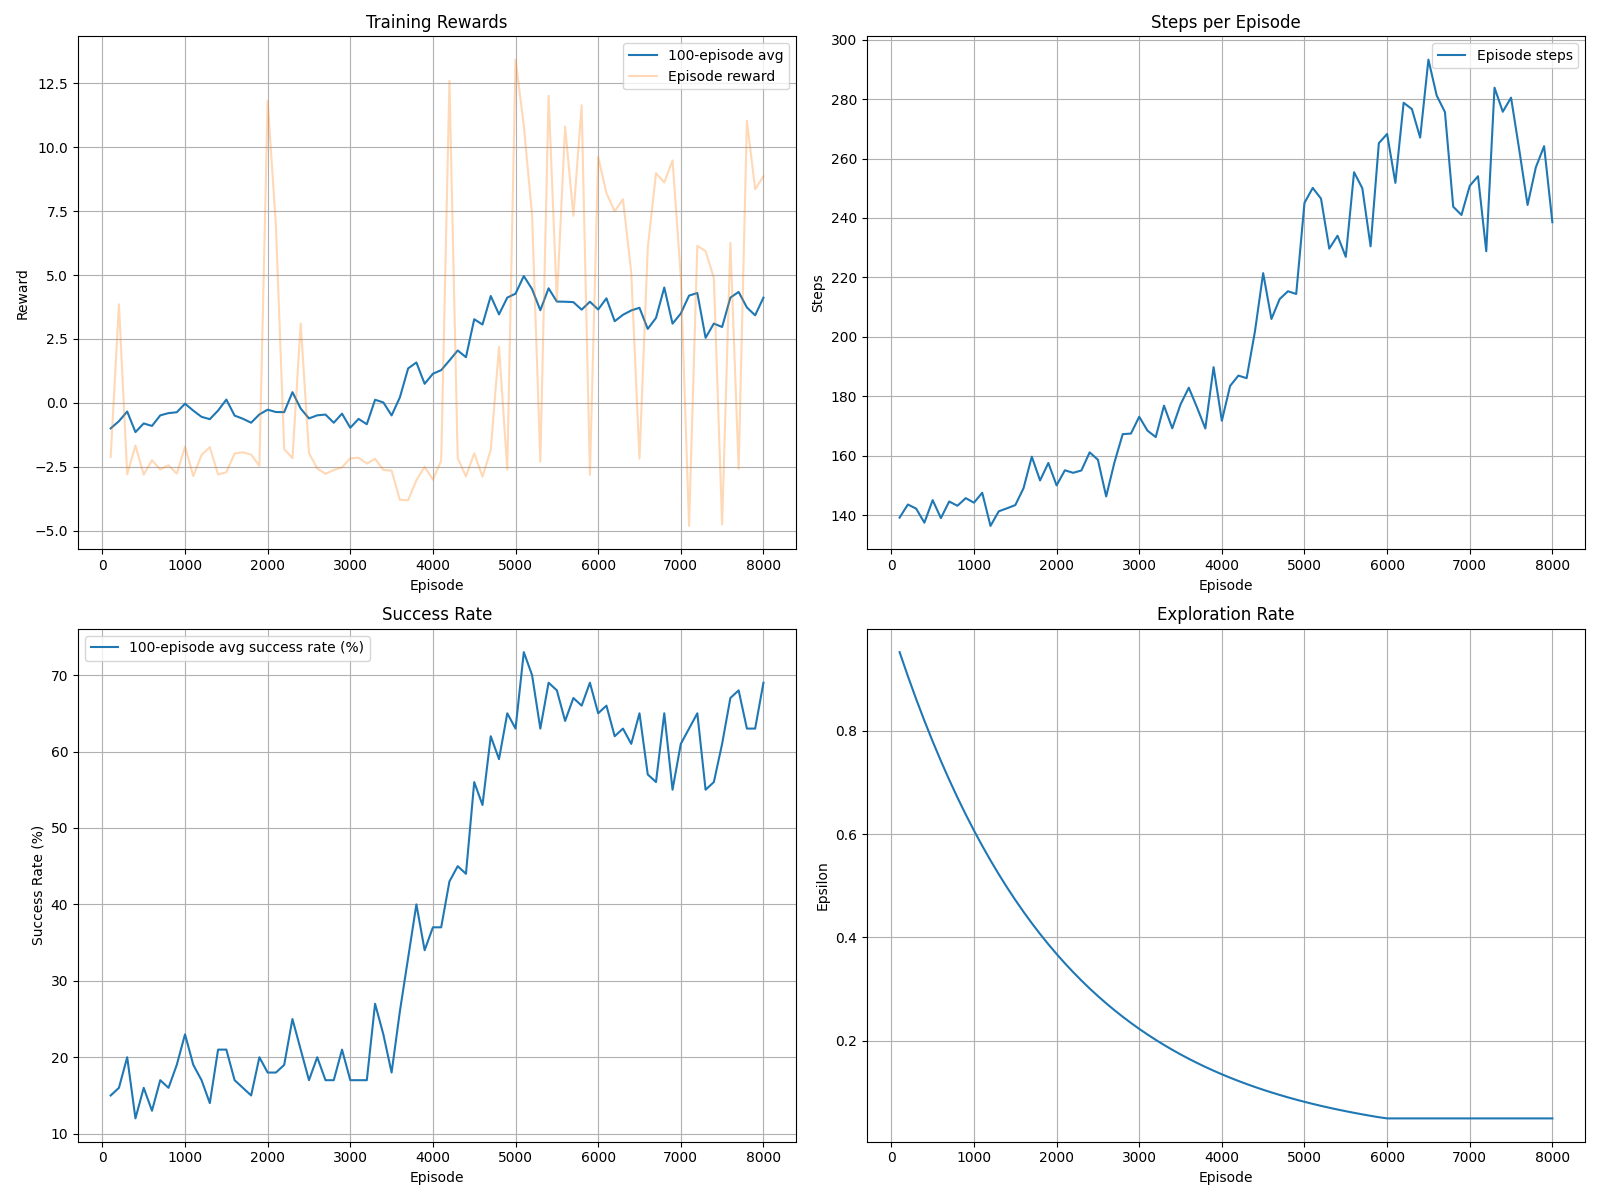
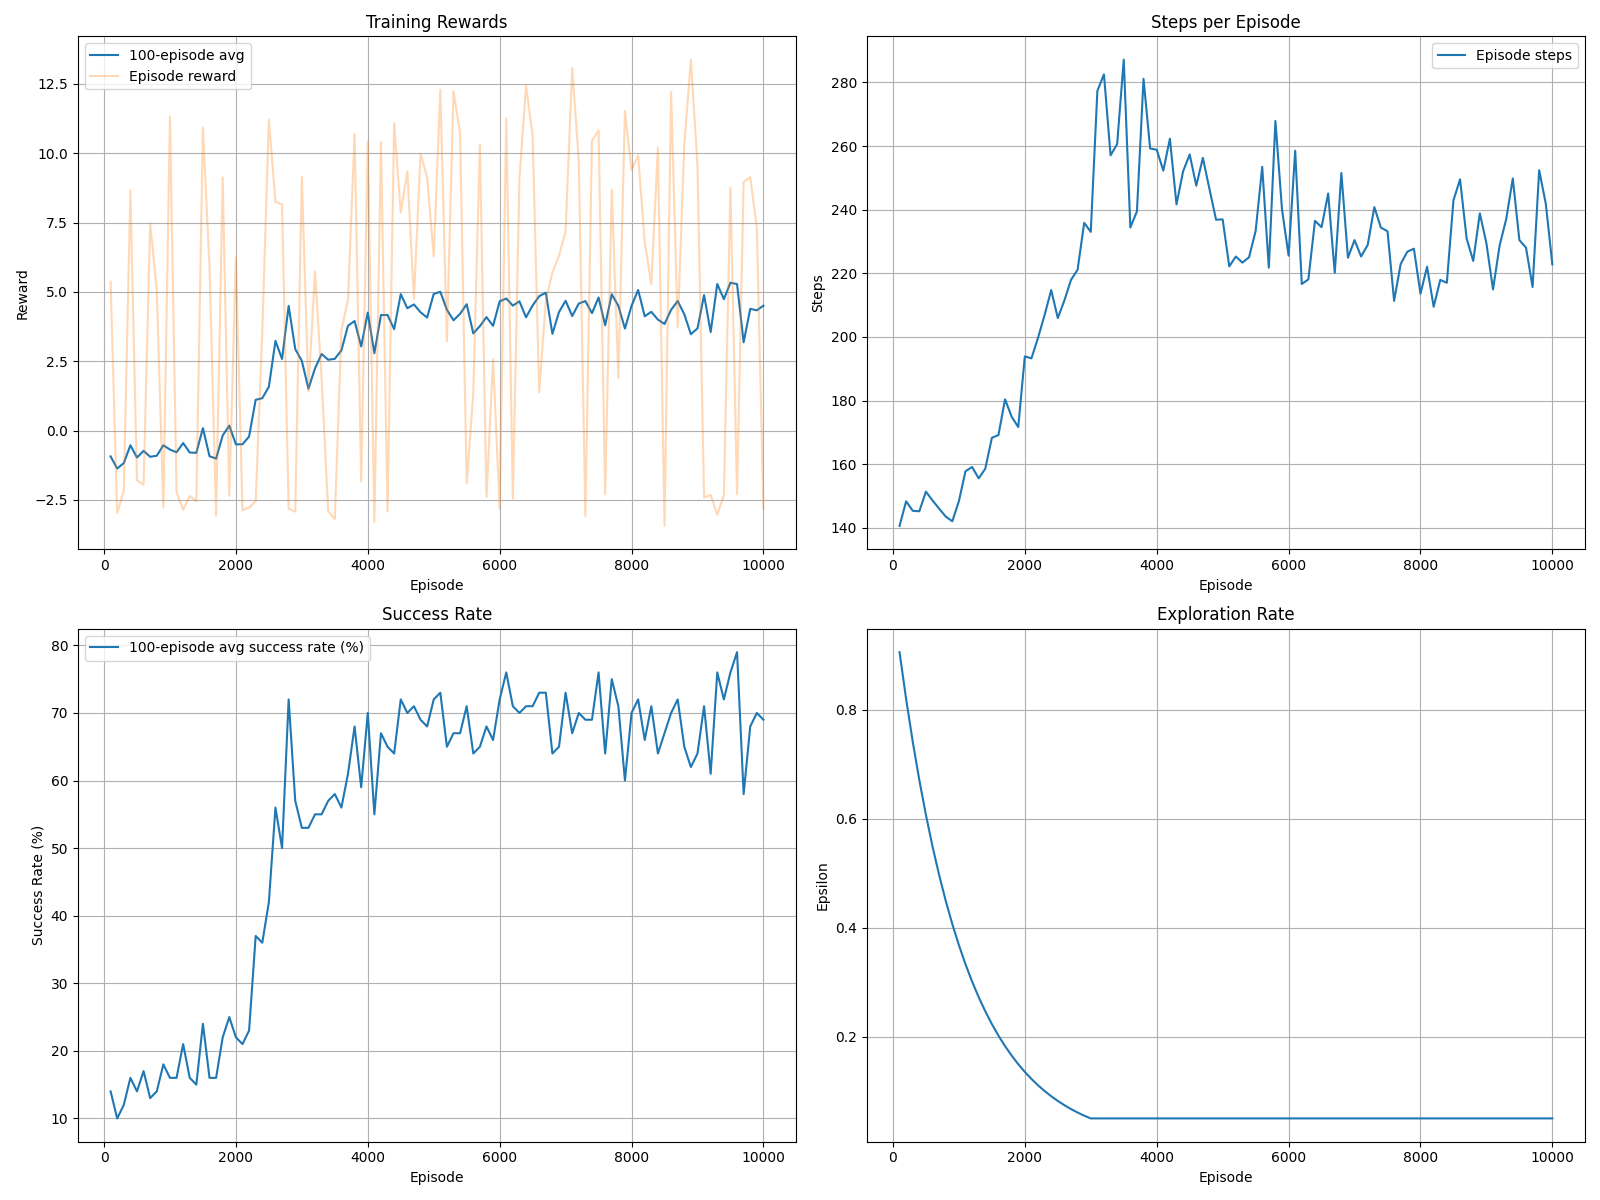
60-70%

diff --git a/dqn.py b/dqn.py
@@ -10,18 +10,22 @@ import pandas as pd
 class QNetwork(nn.Module):
     def __init__(self, state_size, action_size):
         super(QNetwork, self).__init__()
-        self.fc1 = nn.Linear(state_size, 256)  # First hidden layer (increased)
-        self.fc2 = nn.Linear(256, 128)         # Second hidden layer (increased)
-        self.fc3 = nn.Linear(128, 64)          # Third hidden layer (increased)
-        self.fc4 = nn.Linear(64, 32)           # Additional hidden layer
-        self.fc5 = nn.Linear(32, action_size)  # Output layer
+        self.net = nn.Sequential(
+            nn.Linear(state_size, 512),
+            nn.ReLU(),
+            nn.Linear(512, 256),
+            nn.ReLU(),
+            nn.Linear(256, 128),
+            nn.ReLU(),
+            nn.Linear(128, 64),
+            nn.ReLU(),
+            nn.Linear(64, 32),
+            nn.ReLU(),
+            nn.Linear(32, action_size)
+        )
         
     def forward(self, state):
-        x = F.relu(self.fc1(state))
-        x = F.relu(self.fc2(x))
-        x = F.relu(self.fc3(x))
-        x = F.relu(self.fc4(x))
-        return self.fc5(x)  # Output Q-values
+        return self.net(state)
 
 class ReplayBuffer:
     def __init__(self, buffer_size, batch_size):
@@ -120,8 +124,7 @@ class DQNAgent:
                 self.learn(experiences, self.gamma)
                 
                 self.target_counter += 1
-                if self.target_counter % 2 * self.update_every == 0:
-                    self.soft_update(self.qnetwork_local, self.qnetwork_target, self.tau)
+                self.soft_update(self.qnetwork_local, self.qnetwork_target, self.tau)
 
     def act(self, state, eps):
         state = torch.from_numpy( np.array(state, dtype=np.float32)).float().unsqueeze(0).to(self.device)

diff --git a/environment.py b/environment.py
@@ -57,9 +57,9 @@ class Environment:
 
         self.drone = entities.Drone(
             pr.Vector3(
-                self.target.pos.x + random.uniform(-10.0, 10.0) * (1 - phi),
-                random.randrange(50, self.scene_size.y),
-                self.target.pos.z + random.uniform(-10.0, 10.0) * (1 - phi)
+                self.target.pos.x + random.uniform(-5.0, 5.0) * (1 - phi),
+                random.randrange(100, self.scene_size.y),
+                self.target.pos.z + random.uniform(-5.0, 5.0) * (1 - phi)
             )
         )
 
@@ -174,8 +174,6 @@ class Environment:
         if self._check_done():
             if current_distance <= SUCCESS_RADIUS:
                 self.success = True
-                if current_distance < 1:
-                    return 25
                 return 1 + wind_magnitude + (1 - current_distance/SUCCESS_RADIUS) + (1 - self.drone.pos.y/self.scene_size.y)
             
             return -(1 + current_distance/self.scene_size.x)

diff --git a/control_dqn_jump.py b/control_dqn_jump.py
@@ -16,7 +16,7 @@ def main():
 
     env = environment.Environment((500, 400, 500))
     device = torch.device("cuda" if torch.cuda.is_available() else "cpu")
-    agent = DQNAgent(env.state_size, env.action_size, device=device, update_every=UPDATE_EVERY_EPS, buffer_size=BUFFER_SIZE, batch_size=BATCH_SIZE)
+    agent = DQNAgent(env.state_size, env.action_size, device=device, update_every=UPDATE_EVERY_EPS, buffer_size=BUFFER_SIZE, batch_size=BATCH_SIZE, lr=LR, tau=TAU)
 
     # Training tracking
     last_10_rewards = deque(maxlen=10)

diff --git a/config.py b/config.py
@@ -2,13 +2,17 @@
 SCREEN_WIDTH, SCREEN_HEIGHT = 1200, 800
 WINDOW_TITLE = "Drone Grenade Environment DQN VANILLA"
 PHYSICS_DT = 0.05
-N_EPISODES = 8_000
+N_EPISODES = 10_000
 
 # Training parameters
 EPSILON_START = 1.0
 EPSILON_END = 0.05
-EPSILON_DECAY = 0.9995
+EPSILON_DECAY = 0.999
+
+LR = 0.0005
 UPDATE_EVERY_EPS = 4
-BUFFER_SIZE = 50_000
-BATCH_SIZE = 128
+TAU = 0.005
+
+BUFFER_SIZE = 100_000
+BATCH_SIZE = 256
 PHI = 0
